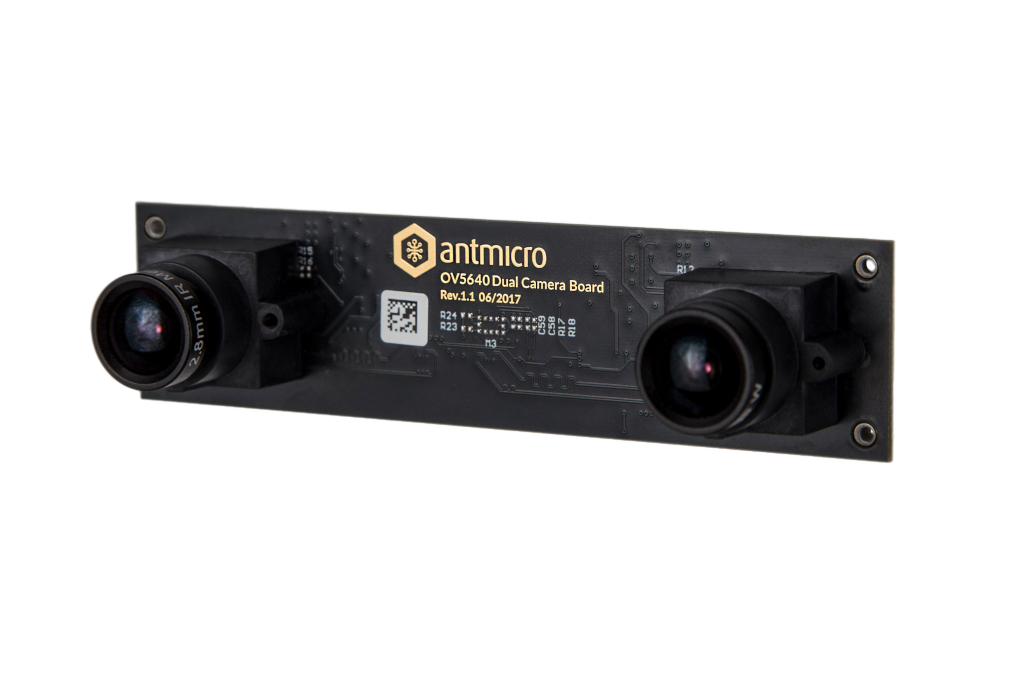
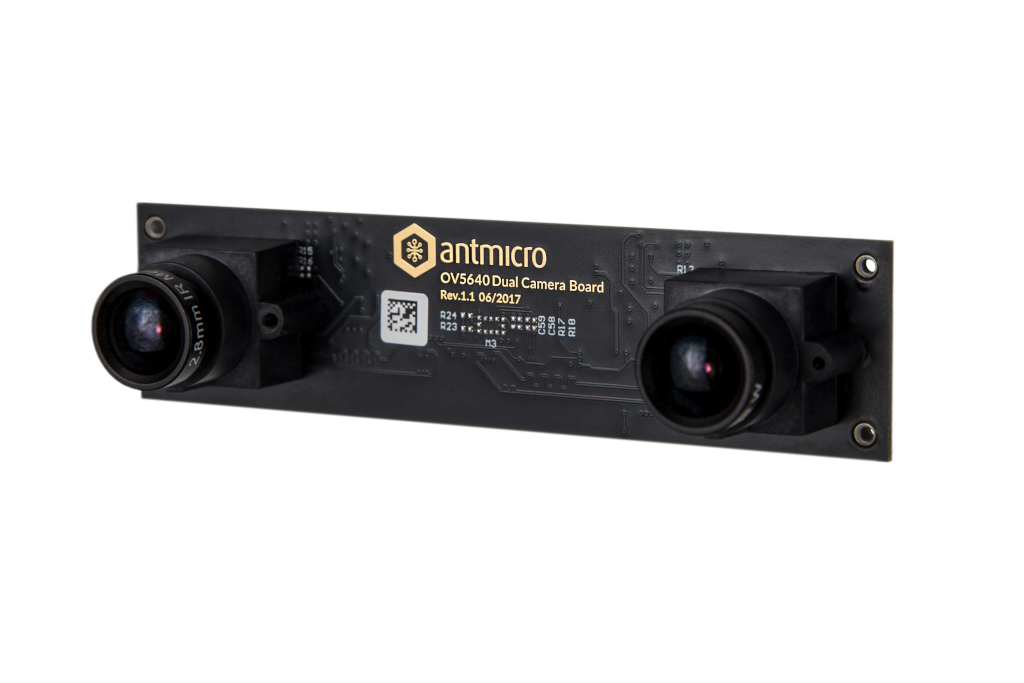
README: replace photo, add more links to the platforms

diff --git a/README.md b/README.md
@@ -7,10 +7,10 @@ Copyright (c) 2017-2023 [Antmicro](https://www.antmicro.com)
 ## Overview
 
 This project contains open hardware design files for a camera board supporting two [OV5640](https://cdn.sparkfun.com/datasheets/Sensors/LightImaging/OV5640_datasheet.pdf) image sensors from OmniVision. 
-The sensors are RGB ones with rolling shutter and offer a resolution 5MP (2591x1944).
+These RGB sensors provide a rolling shutter and offer a resolution of 5MP (2591x1944).
 The design files for this project are provided and maintained in KiCad.
 
-### Project structure:
+### Project structure
 
 The main directory contains the KiCad design files, LICENSE and README.
 The remaining files are stored in the following directories:
@@ -22,17 +22,21 @@ The remaining files are stored in the following directories:
 ## Key features
 
 * Two OV5640 image sensors placed on a PCB
-* Fastening holes for standard 22-mm S-mount lens holders
+* Fastening holes spaced by 20mm for a standard S-mount lens holder
 * Each sensor is accessible through an independent 2-lane MIPI CSI-2 interface
-* Separate I2C busses for sensor configuration 
+* Separate I2C buses for sensor configuration 
 * Unified, 50-pin FFC interface
 * On-board clock generator for driving the image sensors 
 
 The OV5640 Dual Camera board is electrically compatible with a variety of processing platforms created by Antmicro.
-Below there is a list of selected ones
+Below is a list of a few selected ones:
 
-* [Jetson Nano Baseboard]() supporting NVIDIA Jetson Nano, Jetson TX2 NX, Jetson Xavier NX
-* [Jetson Orin Baseboard]() supporting NVIDIA Jetson Orin NX, Jetson Orin Nano
+* [Jetson Nano Baseboard](https://github.com/antmicro/jetson-nano-baseboard) supporting NVIDIA [Jetson Nano](https://developer.nvidia.com/embedded/jetson-nano), Jetson [TX2 NX](https://developer.nvidia.com/embedded/jetson-tx2-nx), Jetson [Xavier NX](https://www.nvidia.com/en-us/autonomous-machines/embedded-systems/jetson-xavier-nx/) System on Modules
+* [Jetson Orin Baseboard](https://github.com/antmicro/jetson-orin-baseboard) supporting NVIDIA Jetson Orin NX, Jetson Orin Nano
+* [Kria K26 Devboard](https://github.com/antmicro/kria-k26-devboard) supporting AMD-Xilinx [KRIA K26](https://www.xilinx.com/products/som/kria/k26c-commercial.html) System on Module
+* [Google Coral Baseboard](https://github.com/antmicro/google-coral-baseboard) supporting [Google Coral](https://coral.ai/products/som) System on Module
+* [Snapdragon 845 Baseboard](https://github.com/antmicro/snapdragon-845-baseboard) based on Quectel SA800 SoM with Qualcomm [Snapdragon 845 Mobile Platform](https://www.qualcomm.com/products/mobile/snapdragon/smartphones/snapdragon-8-series-mobile-platforms/snapdragon-845-mobile-platform)
+* [Snapdragon 625 Baseboard](https://github.com/antmicro/snapdragon-625-baseboard) based on Quectel SC606T SoM with Qualcomm [Snapdragon 625 Mobile Platform](https://www.qualcomm.com/products/mobile/snapdragon/smartphones/snapdragon-6-series-mobile-platforms/snapdragon-625-mobile-platform)
 
 ## License
 
